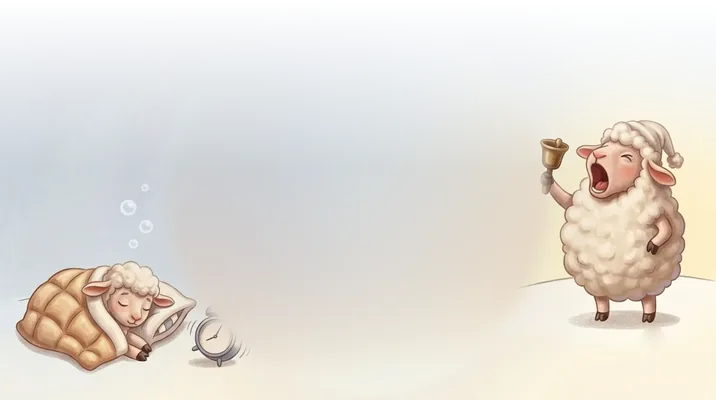
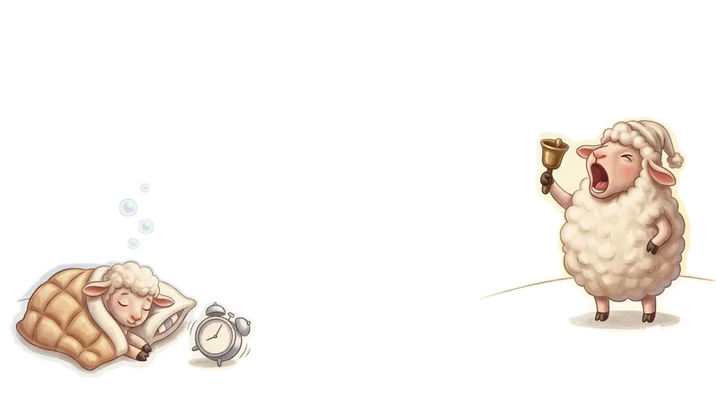
가자

diff --git a/frontend/src/pages/Bible/VerseAlarm/VerseAlarmPage.css b/frontend/src/pages/Bible/VerseAlarm/VerseAlarmPage.css
@@ -947,9 +947,16 @@
      배율이 600px 을 넘어 좌우 양이 통째로 잘려 나가고(가운데 빈 원만 남는다),
      반대로 장면 전체를 넣으면 양이 손톱만 해진다. 그래서 원-다이얼 정렬을 포기했다.
      한때 장면을 두 조각으로 잘라 양쪽 구석에 세워 봤는데, 사각 색면 두 덩이를 붙여 놓은
-     것처럼 보여서 버렸다 — 땅선·빛무리가 이어지는 한 장이 훨씬 자연스럽다.
-     모바일 전용 에셋(mobile-band-*.webp)은 위쪽 알파 페이드와 다크 원 자국 보정을
-     구워 둔 것이다. 굽는 법은 docs/verse-alarm-mobile-band.py. */
+     것처럼 보여서 버렸다.
+     모바일 전용 에셋(mobile-band-*.webp)은 **하늘을 통째로 빼고 양·시계만 남긴** 컷아웃이다.
+     카드 배경이 그대로 비치므로 빈 원도 후광도 있을 자리가 없다.
+     굽는 법은 docs/verse-alarm-mobile-band.py.
+
+   ★ 에셋은 src/assets/verse-alarm/ 에 둔다 — public/ 이 아니다.
+     public/ 은 URL 이 고정이라 sw.js 의 stale-while-revalidate 가 옛 그림을 계속 내주고,
+     다시 구워 배포해도 화면은 그대로다("몇 일을 말했는데 변화가 없다", 2026-09).
+     src/assets 에서 번들러를 거치면 파일명에 콘텐츠 해시가 붙어 URL 이 같이 바뀌므로
+     캐시가 낡을 수가 없다. 되돌리지 말 것. */
 
 /* 공통 — 삽화는 카드 안에서만, 다이얼은 그 위로 */
 .va-hero {
@@ -968,7 +975,7 @@
     content: '';
     position: absolute;
     inset: 0;
-    background-image: url('/images/verse-alarm/hero-light.webp');
+    background-image: url('../../../assets/verse-alarm/hero-light.webp');
     background-size: cover;
     background-position: center;
     background-repeat: no-repeat;
@@ -979,7 +986,7 @@
   }
 
   .dark .va-hero::before {
-    background-image: url('/images/verse-alarm/hero-dark.webp');
+    background-image: url('../../../assets/verse-alarm/hero-dark.webp');
   }
 
   .va-hero.is-art-ready::before {
@@ -995,8 +1002,8 @@
     padding-bottom: 31%;
   }
 
-  /* 장면 한 장을 카드 폭에 맞춰 바닥에 깐다 — 다이얼은 그 위 하늘에 뜬다.
-     에셋은 위쪽 알파 페이드와 다크 원 자국 보정을 구워 둔 것(docs/verse-alarm-mobile-band.py). */
+  /* 양·시계 컷아웃을 카드 폭에 맞춰 바닥에 깐다 — 다이얼은 그 위 빈 자리에 뜬다.
+     배경이 투명이라 카드 색이 그대로 비친다(docs/verse-alarm-mobile-band.py). */
   .va-hero::before {
     content: '';
     position: absolute;
@@ -1004,7 +1011,7 @@
     right: 0;
     bottom: 0;
     aspect-ratio: 1376 / 768;
-    background: url('/images/verse-alarm/mobile-band-light.webp') no-repeat center bottom / 100% auto;
+    background: url('../../../assets/verse-alarm/mobile-band-light.webp') no-repeat center bottom / 100% auto;
     pointer-events: none;
     /* CSS 배경이라 이 엘리먼트가 렌더된 뒤에야 요청이 나간다 — 도착에 맞춰 페이드인 */
     opacity: 0;
@@ -1012,19 +1019,21 @@
   }
 
   .dark .va-hero::before {
-    background-image: url('/images/verse-alarm/mobile-band-dark.webp');
+    background-image: url('../../../assets/verse-alarm/mobile-band-dark.webp');
   }
 
   .va-hero.is-art-ready::before {
     opacity: 1;
   }
 
-  /* 삽화 한가운데의 "다이얼 자리" 원은 띠에서 지웠다(docs/verse-alarm-mobile-band.py) —
-     원본 배율대로 두면 다이얼보다 작은 원이 아래로 밀려나 시계와 따로 노는 동그라미로
-     보였기 때문. 한때 그 후광(.va-dial-wrap::before, inset -7%)을 다이얼 바로 뒤에 다시
-     그렸지만 이 구간에서는 원이 눈금 아래로 삐져나와, 띠 삽화 위에 시계와 상관없이 떠 있는
-     흰 동그라미로 읽혔다 → 후광 없이 다이얼만 하늘에 띄운다. 되살리지 말 것.
-     원-다이얼 정렬이 성립하는 ≥1440px 에서는 삽화 원본의 빈 원이 그 자리를 맡는다. */
+  /* 이 구간에 둥근 것을 다시 들이지 말 것.
+     원본 삽화 한가운데의 "다이얼 자리" 원과 그 둘레 후광은, 다이얼이 위로 떠 있는
+     이 구간에서는 시계와 따로 노는 둥근 얼룩으로 읽힌다("알람시계 가리는 둥근 원,
+     안 될 거면 없애 달라", 2026-09 · 여러 차례 반복된 지적).
+     그림에서 그 원을 빼내려는 시도(다항식 인페인팅·반지름 프로파일 차감)는 전부
+     보정 경계에 더 큰 링을 만들었다 → 하늘을 통째로 빼는 쪽으로 바꿨다.
+     CSS 후광(.va-dial-wrap::before, inset -7%)도 눈금 아래로 삐져나와 제거했다.
+     원-다이얼 정렬이 성립하는 ≥1440px 에서만 원본의 빈 원이 그 자리를 맡는다. */
 }
 
 /* 모바일은 히어로가 맨바닥에 다이얼만 떠 있었다 — 삽화가 설 무대가 없으므로

diff --git a/frontend/src/pages/Bible/VerseAlarm/heroPrefetch.ts b/frontend/src/pages/Bible/VerseAlarm/heroPrefetch.ts
@@ -11,11 +11,17 @@
 // 폭에 따라 쓰는 에셋이 다르다(CSS 주석 참고) — ≥1440px 은 원본 장면, 그 아래는 카드
 // 바닥에 까는 모바일 띠. 안 쓰는 쪽을 받아 둘 이유는 없으므로 화면 폭을 보고 고른다.
 
-const HERO = { light: '/images/verse-alarm/hero-light.webp', dark: '/images/verse-alarm/hero-dark.webp' }
-const BAND = {
-  light: '/images/verse-alarm/mobile-band-light.webp',
-  dark: '/images/verse-alarm/mobile-band-dark.webp',
-}
+// 에셋은 src/assets 에서 번들러를 거쳐 들어온다 — 파일명에 콘텐츠 해시가 붙어
+// 그림을 다시 구우면 URL 이 통째로 바뀐다. public/ 에 두면 URL 이 고정이라
+// 서비스 워커(sw.js 의 stale-while-revalidate)가 옛 그림을 계속 내주고,
+// "다시 구웠는데 화면은 그대로"가 된다. 여기서 다시 public/ 으로 옮기지 말 것.
+import heroLight from '../../../assets/verse-alarm/hero-light.webp'
+import heroDark from '../../../assets/verse-alarm/hero-dark.webp'
+import bandLight from '../../../assets/verse-alarm/mobile-band-light.webp'
+import bandDark from '../../../assets/verse-alarm/mobile-band-dark.webp'
+
+const HERO = { light: heroLight, dark: heroDark }
+const BAND = { light: bandLight, dark: bandDark }
 
 /** 장면 한 장을 통째로 까는 폭인가 — VerseAlarmPage.css 의 @media (min-width: 1440px) 와 짝 */
 const wideScene = (): boolean =>

diff --git a/frontend/docs/verse-alarm-mobile-band.py b/frontend/docs/verse-alarm-mobile-band.py
@@ -1,186 +1,129 @@
 #!/usr/bin/env python3
-"""구절 알람 히어로 삽화 — 모바일용 띠(band) 굽기.
+"""구절 알람 히어로 삽화 — 모바일·태블릿용 띠(band) 굽기.
 
 왜 따로 굽는가
 --------------
 PC(≥1440px)에서는 hero-{light,dark}.webp 한 장을 카드에 `cover` 로 깐다. 그림 한가운데의
 빈 원이 다이얼(320px) 자리라, 카드가 588px 이상일 때만 배율이 맞으면서 좌우 양도 살아남는다.
 
-폰에서는 그 정렬이 성립하지 않는다. 카드가 ~330~430px 인데 다이얼은 260px 이라
-원/다이얼 비율이 원본(폭의 43%)의 두 배 가까이(≈73%) 된다. 원에 맞춰 cover 를 걸면
-배율이 600px 을 넘어 좌우 양이 통째로 잘려 나가고(가운데 빈 원만 남는다), 반대로
-장면 전체를 넣으면 양이 손톱만 해진다.
+그 아래 폭에서는 정렬이 성립하지 않는다. 카드가 ~330~430px 인데 다이얼은 260px 이라
+원/다이얼 비율이 원본(폭의 43%)의 두 배 가까이(≈73%) 된다. 다이얼은 그림 위 하늘에 뜨고,
+빈 원과 그 둘레 후광은 다이얼과 따로 노는 "둥근 얼룩"으로 남는다.
 
-그래서 모바일은 정렬을 포기하고 **장면 전체를 카드 폭에 맞춰 아래쪽에 깐다**.
-다이얼은 그 위 하늘에 뜬다. 조각을 두 개로 잘라 양쪽 구석에 세워도 봤는데, 사각 색면
-두 덩이가 붙은 것처럼 보여서 버렸다 — 땅선·빛무리가 이어지는 한 장이 훨씬 자연스럽다.
+무엇을 하는가 — 하늘을 통째로 뺀다
+----------------------------------
+양·시계만 남기고 하늘·언덕 색면을 투명으로 만든다. 카드 배경(--surface-container)이
+그대로 비치므로 **둥근 자국이 있을 자리 자체가 없어진다.**
 
-굽는 것 두 가지
----------------
-1) 빈 원 자국 지우기.
-   원본의 빈 원은 "다이얼이 앉을 자리"다. PC 는 그 위에 다이얼이 정확히 포개져 안 보이지만,
-   모바일은 원이 다이얼보다 작고 아래로 밀려나 다이얼과 따로 노는 동그라미로 보인다
-   ("동그란 게 시계 안으로 들어가야 하는데 아래에 걸쳐만 있다"는 피드백, 2026-09).
-   그래서 띠에서는 원을 완전히 지우고, 다이얼 뒤 후광은 CSS 로 다시 그린다
-   (한때 CSS 후광 `.va-dial-wrap::before` 을 덧그렸으나 눈금 아래로 삐져나와 제거).
-   - 라이트: 원 안쪽이 주변보다 어둡고(휘도 231 vs 테두리 237) 가장자리에 흰 빛띠가
-     r≈1.0~1.3 까지 번져 있어 상수 보정으로는 안 지워진다. 원 바깥 고리(r 1.32~2.0)의
-     화소로 3차 다항식 색면을 로버스트 피팅(양·시계 화소는 잔차 컷으로 제외)해서
-     원 안을 그 색면으로 채우고 r 1.15~1.32 에서 페더링한다.
-   - 다크: 원이 아주 옅은 음영(2~5레벨)이라 반경 방향 스무스스텝으로 +(4,5,1) 을 더해
-     평평하게 만든다. 다항식 피팅은 오른쪽 양의 따뜻한 빛무리에 끌려 원 자리에 밝은
-     얼룩을 만들기 때문에(확인함) 다크에는 쓰지 않는다.
-2) 원 둘레의 빛무리 지우기.
-   원 자국을 지워도 그 둘레에 깔린 넓은 후광(반지름 2배 남짓의 부드러운 밝은 원)은
-   그대로 남는다. PC 에선 다이얼이 정확히 그 위에 앉아 "시계를 비추는 빛"으로 읽히지만,
-   모바일은 다이얼이 위로 떠 있어 다이얼 아래쪽을 가리는 둥근 형체로 보인다
-   ("알람시계 가리고 있는 둥근 원, 안 될 거면 없애 달라", 2026-09).
-   원 바깥 하늘·땅에 맞춘 2차 다항식 색면 대비 편차를 반지름별로 재서(위쪽 하늘 기준)
-   그 프로파일을 전체에서 뺀다. 사물 마스크로 보정 범위를 가르면 마스크 경계에 얼룩이
-   생기므로(확인함) 보정은 마스크 없이 매끈한 함수로만 건다.
-3) 위쪽 알파 페이드.
-   띠 위쪽 하늘이 카드 배경과 만나는 가로 경계를 지운다. CSS mask 로도 되지만
-   에셋에 구워 두면 브라우저 편차가 없다. 카드 색이 무엇이든 녹아들도록 투명으로 뺀다.
+한때는 그 원을 그림에서 "지우려" 했다 — 원 안을 다항식 색면으로 다시 칠하고(라이트),
+상수로 밝히고(다크), 둘레 후광은 반지름 프로파일로 빼는 식으로. 전부 실패했다.
+보정 구간이 끝나는 반지름에서 새 경계가 생겨, 지운 원 대신 **더 큰 원**이 나타났다
+(2026-09, 여러 차례). 회전대칭 성분을 페이드 없이 통째로 빼 봐도 밝은 원반이 생겼다.
+원이 그림에 칠해져 있는 한, 평면 비트맵에서 빼내는 방식은 링을 만든다. 되살리지 말 것.
+
+매트 만드는 법
+--------------
+하늘은 매끈한 저주파다. 큰 반경 중앙값 + 다운스케일로 "하늘만" 추정한 뒤 원본과의
+채널 최대 차이를 재면 사물만 도드라진다. 그 차이를 부드러운 알파로 쓰되,
+그대로 쓰면 양의 몸통 안쪽처럼 넓고 평평한 곳이 하늘로 오인돼 뚫린다(확인함).
+그래서 임계값으로 코어를 만들고 테두리에서 흘려 채워 내부 구멍을 메운 뒤,
+부드러운 알파와 합쳐 가장자리만 페더링한다.
+
+양 주변의 따뜻한 빛(깨우는 양의 종 빛)과 언덕 능선은 하늘과 다르므로 매트에 남는다 —
+큰 원은 사라지고 장면의 온기는 남는다.
 
 출력은 716px 폭 — 카드 폭 358px 의 2배(레티나). 폭에 맞춰 100% 로 깔린다(VerseAlarmPage.css).
+
+에셋은 src/assets 에 있다 — 번들러가 콘텐츠 해시를 붙여 주는 자리다.
+public/ 로 되돌리면 URL 이 고정되어 서비스 워커가 옛 그림을 계속 내주고,
+다시 구워도 화면이 안 바뀐다(heroPrefetch.ts 주석 참고).
 """
 from pathlib import Path
 
 import numpy as np
-from PIL import Image, ImageFilter
+from PIL import Image, ImageDraw, ImageFilter
 
-SRC = Path(__file__).resolve().parent.parent / "public" / "images" / "verse-alarm"
+SRC = Path(__file__).resolve().parent.parent / "src" / "assets" / "verse-alarm"
 
-# 빈 원 — 1376×768 원본 기준 실측 (지름 = 폭의 43%)
-DISC = dict(cx=688, cy=384, r=296)
-DISC_EDGE = 0.20          # 다크 상수 보정의 가장자리 페더 폭(반지름 대비)
-DISC_FIX = {"dark": (4.0, 5.0, 1.0)}
+# 하늘 추정 — 중앙값 반경과 다운스케일 배수. 양(가장 큰 사물)보다 훨씬 거칠어야 한다.
+SKY_MEDIAN = 9
+SKY_SHRINK = 16
 
-# 라이트 다항식 인페인팅 — 반지름 배수
-FILL_R = 1.15             # 여기까지는 피팅한 색면으로 완전히 대체
-FEATHER_R = 1.32          # 여기서 원본으로 완전히 복귀(빛띠가 끝나는 곳)
-FIT_R = (1.32, 2.0)       # 색면을 피팅할 고리
-FIT_DEG = 3
+# 알파 임계 — 하늘 추정과의 채널 최대 차이가 LO 면 완전 투명, HI 면 완전 불투명.
+# 다크는 대비가 좁아 조금 낮게 잡는다.
+THRESH = {"light": (10.0, 34.0), "dark": (8.0, 26.0)}
 
-# 빛무리 평탄화 — 반지름 배수
-GLOW_KEEP_R = 1.4         # 여기까지는 프로파일을 전부 뺀다
-GLOW_FADE_R = 2.2         # 여기서 원본으로 완전히 복귀
-GLOW_FIT_R = (2.0, 6.0)   # "빛무리 없는 하늘·땅" 색면을 맞출 바깥 영역
-GLOW_FIT_DEG = 2
+CORE_AT = 0.25   # 이 알파 이상을 "사물 코어" 씨앗으로 본다
+CORE_CLOSE = 11  # 씨앗을 닫는(팽창→침식) 반경 — 이불의 어두운 무늬처럼 사물 안쪽의
+                 # 하늘색 틈을 메워 둘러막는다. 이게 작으면 플러드필이 새어
+                 # 이불에 구멍이 뚫린다(확인함, 다크 1100px).
+CORE_GROW = 5    # 메운 코어를 이만큼 부풀려 가장자리 반투명 띠를 덮는다
+FEATHER = 1.6    # 최종 알파 페더(px)
 
-OUT_W = 716               # 카드 폭 358 의 2배
-FADE = 0.42               # 위에서 이 비율까지 알파 0 → 1
+OUT_W = 716      # 카드 폭 358 의 2배
 
 
-def _radius(shape) -> np.ndarray:
-    h, w = shape[:2]
-    ys, xs = np.mgrid[0:h, 0:w]
-    return np.hypot(xs - DISC["cx"], ys - DISC["cy"]) / DISC["r"]
+def _fill_holes(mask: np.ndarray) -> np.ndarray:
+    """테두리에서 배경을 흘려 채운 뒤 남은 것 = 사물 내부 구멍 → 불투명으로 메운다."""
+    h, w = mask.shape
+    padded = Image.new("L", (w + 2, h + 2), 0)
+    padded.paste(Image.fromarray(np.where(mask, 255, 0).astype(np.uint8), "L"), (1, 1))
+    ImageDraw.floodfill(padded, (0, 0), 128)
+    outside = np.asarray(padded)[1 : h + 1, 1 : w + 1] == 128
+    return ~outside
 
 
-def flatten_disc(img: np.ndarray, amp) -> np.ndarray:
-    """다크용 — 원 안쪽을 상수만큼 밝혀 주변과 평평하게."""
-    r = _radius(img.shape)
-    t = np.clip((1.0 + DISC_EDGE / 2 - r) / DISC_EDGE, 0.0, 1.0)
-    s = (t * t * (3.0 - 2.0 * t))[..., None]
-    return np.clip(img + np.array(amp) * s, 0, 255)
-
-
-def inpaint_disc(img: np.ndarray) -> np.ndarray:
-    """라이트용 — 원 바깥 고리에 맞춘 매끈한 색면으로 원 안을 다시 칠한다."""
+def sky_matte(img: np.ndarray, theme: str) -> np.ndarray:
+    """하늘 0 · 사물 1 의 알파."""
     h, w, _ = img.shape
-    r = _radius(img.shape)
-    ys, xs = np.mgrid[0:h, 0:w]
-    X, Y = xs / w - 0.5, ys / h - 0.5
-    basis = np.stack(
-        [(X**i) * (Y**j) for i in range(FIT_DEG + 1) for j in range(FIT_DEG + 1 - i)], -1
+    sky = np.asarray(
+        Image.fromarray(img.astype(np.uint8))
+        .filter(ImageFilter.MedianFilter(SKY_MEDIAN))
+        .resize((w // SKY_SHRINK, h // SKY_SHRINK), Image.BILINEAR)
+        .resize((w, h), Image.BICUBIC),
+        dtype=float,
     )
-    ring = (r > FIT_R[0]) & (r < FIT_R[1])
-    surface = np.empty_like(img)
-    for c in range(3):
-        keep = ring.copy()
-        for _ in range(4):  # 양·시계·거품 화소를 잔차로 걸러 내며 다시 맞춘다
-            coef, *_ = np.linalg.lstsq(basis[keep], img[..., c][keep], rcond=None)
-            pred = (basis.reshape(-1, basis.shape[-1]) @ coef).reshape(h, w)
-            resid = np.abs(img[..., c] - pred)
-            keep = ring & (resid < 2.0 * resid[ring].std())
-        surface[..., c] = pred
-    t = np.clip((r - FILL_R) / (FEATHER_R - FILL_R), 0.0, 1.0)
-    s = (t * t * (3.0 - 2.0 * t))[..., None]
-    return np.clip(img * s + surface * (1.0 - s), 0, 255)
+    lo, hi = THRESH[theme]
+    soft = np.clip((np.abs(img - sky).max(axis=2) - lo) / (hi - lo), 0.0, 1.0)
 
-
-def _foreground_mask(img: np.ndarray, theme: str) -> np.ndarray:
-    """양·이불·시계 같은 사물 화소 — 색면 피팅과 프로파일 측정에서만 제외한다
-    (보정 자체는 마스크 없이 전체에 건다 — 마스크 경계에서 얼룩이 생기는 걸 봤다)."""
-    r, g, b = img[..., 0], img[..., 1], img[..., 2]
-    lum = img.mean(axis=2)
-    if theme == "light":
-        mask = ((r - b) > 22) | (lum < 195)
-    else:
-        mask = (lum > 60) | (np.abs(r - b) > 15)
-    return np.asarray(Image.fromarray((mask * 255).astype(np.uint8)).filter(ImageFilter.MaxFilter(9))) > 0
-
-
-def flatten_glow(img: np.ndarray, theme: str) -> np.ndarray:
-    """원 둘레 후광을 반지름 방향 프로파일로 걷어 낸다.
-
-    1) 원 바깥(r 2~6, 사물 제외)에 2차 다항식 색면을 맞춘다 = 후광 없는 하늘·땅.
-    2) 위쪽 반원(하늘)의 사물 아닌 화소에서 (원본 - 색면) 을 반지름별 중앙값으로 잰다
-       = 후광의 대칭 성분. 채널별로 재서 색조(따뜻한 빛)까지 같이 빠진다.
-    3) 그 프로파일을 매끈하게 다듬어 모든 화소에서 뺀다. 마스크가 없으니 경계 얼룩이
-       없고, 양은 r 1.3~2 에 있어 몇 레벨만 고르게 어두워질 뿐이다.
-    """
-    h, w, _ = img.shape
-    r = _radius(img.shape)
-    fg = _foreground_mask(img, theme)
-    ys, xs = np.mgrid[0:h, 0:w]
-    X, Y = xs / w - 0.5, ys / h - 0.5
-    basis = np.stack(
-        [(X**i) * (Y**j) for i in range(GLOW_FIT_DEG + 1) for j in range(GLOW_FIT_DEG + 1 - i)], -1
+    seed = Image.fromarray(((soft > CORE_AT) * 255).astype(np.uint8), "L")
+    seed = seed.filter(ImageFilter.MaxFilter(CORE_CLOSE)).filter(ImageFilter.MinFilter(CORE_CLOSE))
+    core = _fill_holes(np.asarray(seed) > 127)
+    core = (
+        np.asarray(
+            Image.fromarray((core * 255).astype(np.uint8)).filter(ImageFilter.MaxFilter(CORE_GROW))
+        ).astype(float)
+        / 255.0
     )
-    ring = (r > GLOW_FIT_R[0]) & (r < GLOW_FIT_R[1]) & ~fg
-    upper = (ys < DISC["cy"]) & ~fg
-    edges = np.arange(0.0, GLOW_FADE_R + 0.15, 0.1)
-    centers = (edges[:-1] + edges[1:]) / 2
-    fade_t = np.clip((r - GLOW_KEEP_R) / (GLOW_FADE_R - GLOW_KEEP_R), 0.0, 1.0)
-    fade = 1.0 - fade_t * fade_t * (3.0 - 2.0 * fade_t)
-    out = img.copy()
-    for c in range(3):
-        ch = img[..., c]
-        keep = ring.copy()
-        for _ in range(4):
-            coef, *_ = np.linalg.lstsq(basis[keep], ch[keep], rcond=None)
-            pred = (basis.reshape(-1, basis.shape[-1]) @ coef).reshape(h, w)
-            resid = np.abs(ch - pred)
-            keep = ring & (resid < 2.0 * resid[ring].std())
-        dev = ch - pred
-        prof = np.array([
-            np.median(dev[upper & (r >= a) & (r < b)]) if np.any(upper & (r >= a) & (r < b)) else 0.0
-            for a, b in zip(edges[:-1], edges[1:])
-        ])
-        prof = np.convolve(np.pad(prof, 2, mode="edge"), np.ones(5) / 5, mode="valid")
-        amp = np.interp(r, centers, prof, left=prof[0], right=0.0)
-        out[..., c] = ch - amp * fade
-    return np.clip(out, 0, 255)
+
+    alpha = np.maximum(soft, core)
+    return (
+        np.asarray(
+            Image.fromarray((alpha * 255).astype(np.uint8)).filter(
+                ImageFilter.GaussianBlur(FEATHER)
+            )
+        ).astype(float)
+        / 255.0
+    )
 
 
 def main() -> None:
     for theme in ("light", "dark"):
         src = Image.open(SRC / f"hero-{theme}.webp").convert("RGB")
         arr = np.asarray(src, dtype=float)
-        fixed = inpaint_disc(arr) if theme == "light" else flatten_disc(arr, DISC_FIX[theme])
-        fixed = flatten_glow(fixed, theme)
-        band = Image.fromarray(fixed.astype(np.uint8)).resize(
-            (OUT_W, round(OUT_W * src.height / src.width)), Image.LANCZOS
+        alpha = sky_matte(arr, theme)
+
+        out_h = round(OUT_W * src.height / src.width)
+        rgb = Image.fromarray(arr.astype(np.uint8)).resize((OUT_W, out_h), Image.LANCZOS)
+        a = Image.fromarray((alpha * 255).astype(np.uint8), "L").resize(
+            (OUT_W, out_h), Image.LANCZOS
         )
-        rgb = np.asarray(band, dtype=np.uint8)
-        h, w, _ = rgb.shape
-        fade = np.clip(np.linspace(0.0, 1.0 / FADE, h), 0.0, 1.0)
-        alpha = (fade[:, None] * 255).round().astype(np.uint8).repeat(w, axis=1)
+        band = Image.merge("RGBA", (*rgb.split(), a))
+
         path = SRC / f"mobile-band-{theme}.webp"
-        Image.fromarray(np.dstack([rgb, alpha]), "RGBA").save(path, "WEBP", quality=82, method=6)
-        print(f"{path.name}: {w}x{h}  {path.stat().st_size / 1024:.1f}KB")
+        band.save(path, "WEBP", quality=88, method=6)
+        opaque = (np.asarray(a) > 8).mean() * 100
+        print(f"{path.name}: {OUT_W}x{out_h}  불투명 {opaque:.1f}%  {path.stat().st_size / 1024:.1f}KB")
 
 
 if __name__ == "__main__":
